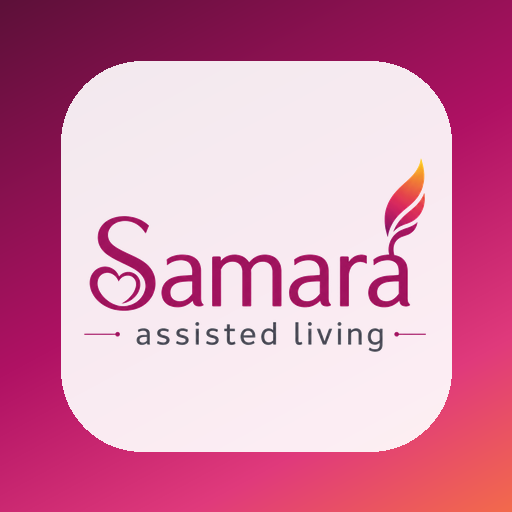
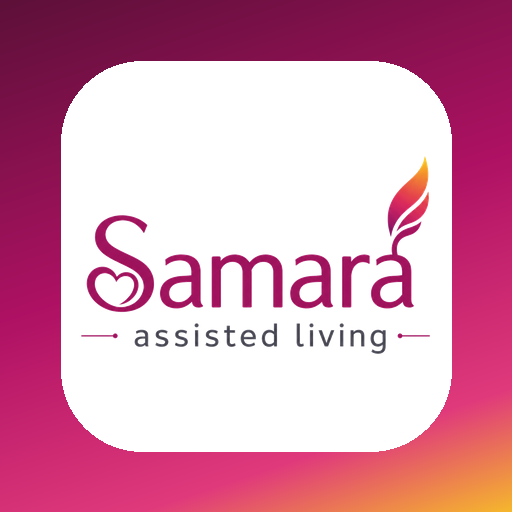
Add files via upload

Changed region(s): [[0.1562, 0.3125, 0.8438, 0.6875], [0.4688, 0.8438, 1.0, 1.0], [0.4688, 0.5, 0.5, 0.5938]]

diff --git a/app.js b/app.js
@@ -70,8 +70,8 @@
 
 (() => {
   'use strict';
-  const APP_VERSION = '2.8.4';
-  const APP_BUILD_DATE = '06-Aug-2026 08:30 IST';
+  const APP_VERSION = '2.8.5';
+  const APP_BUILD_DATE = '06-Aug-2026 08:50 IST';
   const APP_SCHEMA_VERSION = '24';
   window.APP_VERSION = APP_VERSION;
   window.SAMARA_BUILD = Object.freeze({
@@ -158,8 +158,9 @@
       .badge.success,.status-badge.success,.pill.success{background:#fae7f0!important;color:#781345!important;border-color:#e2adc7!important}
       .field-toggle-button.make-required{background:linear-gradient(100deg,#7a1247,#b01264,#e03a7c)!important;color:#fff!important}
       .medication-declaration{display:grid;grid-template-columns:minmax(320px,520px) 1fr;gap:14px;align-items:end;margin:10px 0 14px;padding:14px;border:1px solid #ead0de;border-radius:14px;background:linear-gradient(135deg,#fffafd,#fff1f7)}
-      .medicine-order-row{grid-template-columns:38px minmax(170px,1.15fr) minmax(145px,1fr) minmax(110px,.75fr) minmax(150px,1fr) minmax(120px,.8fr) minmax(190px,1.2fr) minmax(135px,.9fr)!important}
-      @media(max-width:1100px){.medication-declaration{grid-template-columns:1fr}.medicine-order-row{grid-template-columns:1fr 1fr!important}.admission-row-number{grid-column:1/-1}}
+      .medicine-order-row{grid-template-columns:repeat(5,minmax(155px,1fr))!important}
+      @media(max-width:1250px){.medication-declaration{grid-template-columns:1fr}.medicine-order-row{grid-template-columns:repeat(3,minmax(160px,1fr))!important}}
+      @media(max-width:760px){.medicine-order-row{grid-template-columns:1fr!important}}
       .field-setting-status.optional{background:#fae7f0!important;color:#781345!important}
       .field-settings-autosave{color:#ffe5f1!important}
       .app-splash-progress span,.login-v3-progress span,
@@ -1606,10 +1607,59 @@ Caring with Compassion. Living with Dignity.`;
       .content .btn{
         min-height:38px;
       }
-            .admission-numbered-row{position:relative;padding-left:54px!important}
+      .admission-numbered-row{
+        position:relative!important;
+        padding:54px 12px 12px!important;
+        margin-top:10px!important;
+        border:1px solid #ead0de!important;
+        border-radius:14px!important;
+        background:linear-gradient(145deg,#ffffff,#fffafd)!important;
+        column-gap:10px!important;
+        row-gap:12px!important;
+        align-items:end!important;
+      }
       .admission-row-number{
-        position:absolute;left:12px;top:12px;width:30px;height:30px;border-radius:50%;
-        display:grid;place-items:center;background:linear-gradient(100deg,#7a1247,#b01264,#e03a7c);color:#fff;font-weight:900
+        position:absolute!important;
+        left:14px!important;
+        top:10px!important;
+        width:30px!important;
+        height:30px!important;
+        border-radius:50%!important;
+        display:grid!important;
+        place-items:center!important;
+        background:linear-gradient(100deg,#7a1247,#b01264,#e03a7c)!important;
+        color:#fff!important;
+        font-weight:900!important;
+        line-height:1!important;
+        z-index:2!important;
+      }
+      .admission-numbered-row>.field,
+      .admission-numbered-row>.medication-time-field{
+        min-width:0!important;
+        width:100%!important;
+      }
+      .admission-numbered-row label{
+        display:block!important;
+        margin-bottom:6px!important;
+        line-height:1.2!important;
+        white-space:normal!important;
+      }
+      .admission-numbered-row input,
+      .admission-numbered-row select,
+      .admission-numbered-row textarea{
+        width:100%!important;
+        min-width:0!important;
+      }
+      .admission-numbered-row.care{
+        grid-template-columns:minmax(210px,1.25fr) minmax(180px,.85fr) minmax(180px,.85fr) minmax(250px,1.5fr) auto!important;
+      }
+      @media(max-width:1050px){
+        .admission-numbered-row.care{grid-template-columns:1fr 1fr!important}
+        .admission-numbered-row.care>.btn{grid-column:1/-1;justify-self:end}
+      }
+      @media(max-width:700px){
+        .admission-numbered-row{padding:52px 10px 10px!important}
+        .admission-numbered-row.care{grid-template-columns:1fr!important}
       }
       .admission-locked-row{
         display:grid;grid-template-columns:36px minmax(0,1fr) auto;gap:10px;align-items:start;
@@ -1661,8 +1711,6 @@ Caring with Compassion. Living with Dignity.`;
       @media(max-width:700px){
         .admission-locked-row{grid-template-columns:36px 1fr}
         .admission-row-actions{grid-column:1/-1}
-        .admission-numbered-row{padding-left:12px!important;padding-top:48px!important}
-        .admission-row-number{top:10px}
       }
 
 .content .clinical-charge-note{

diff --git a/index.html b/index.html
@@ -3,43 +3,38 @@
 <head>
   <meta charset="UTF-8" />
   <meta name="viewport" content="width=device-width, initial-scale=1, viewport-fit=cover" />
-  <meta name="theme-color" content="#a91360" />
+  <meta name="theme-color" content="#b01264" />
   <meta name="apple-mobile-web-app-capable" content="yes" />
   <meta name="apple-mobile-web-app-status-bar-style" content="default" />
   <meta name="apple-mobile-web-app-title" content="Samara Care" />
-  <title>Samara Care ERP 2.8.3</title>
-  <link rel="manifest" href="./manifest.webmanifest" />
-  <link rel="apple-touch-icon" sizes="180x180" href="./icons/apple-touch-icon.png" />
-  <link rel="icon" type="image/png" href="./icons/favicon.png" />
-  <link rel="stylesheet" href="./styles.css?v=2.8.3" />
-  <style>
-    .app-splash-brand-logo{display:block;width:min(430px,82vw);max-height:210px;object-fit:contain;margin:0 auto 10px}
-    @media(max-width:600px){.app-splash-brand-logo{width:min(320px,88vw);max-height:160px}}
-  </style>
-  <link rel="stylesheet" href="./samara-gradient-theme.css?v=2.8.3" />
+  <title>Samara Care ERP 2.8.5</title>
+  <link rel="manifest" href="./manifest.webmanifest?v=2.8.5" />
+  <link rel="apple-touch-icon" sizes="180x180" href="./icons/apple-touch-icon.png?v=2.8.5" />
+  <link rel="icon" type="image/png" href="./icons/favicon.png?v=2.8.5" />
+  <link rel="stylesheet" href="./styles.css?v=2.8.5" />
 </head>
 <body>
   <div id="app-splash" class="app-splash" role="status" aria-live="polite" aria-label="Loading Samara Care ERP">
     <div class="app-splash-orb app-splash-orb-one" aria-hidden="true"></div>
     <div class="app-splash-orb app-splash-orb-two" aria-hidden="true"></div>
     <div class="app-splash-card">
-      <img class="app-splash-brand-logo" src="./assets/samara-logo.png?v=2.8.3" alt="Samara Assisted Living" />
-      
+      <div class="app-splash-logo" aria-hidden="true">SC</div>
+      <div class="app-splash-kicker">ASSISTED LIVING MANAGEMENT</div>
       <h1>Samara Care ERP</h1>
-      <p class="app-splash-tagline">Compassion&nbsp; • &nbsp;Comfort&nbsp; • &nbsp;Dignity</p>
+      <p class="app-splash-tagline">Compassion&nbsp; • &nbsp;Care&nbsp; • &nbsp;Comfort</p>
       <div class="app-splash-progress" aria-hidden="true"><span></span></div>
       <p class="app-splash-status">Preparing your secure workspace…</p>
-      <div class="app-splash-version">Version 2.8.3</div>
+      <div class="app-splash-version">Version 2.8.5</div>
     </div>
   </div>
   <div id="root"></div>
   <noscript>JavaScript is required to run Samara Care.</noscript>
-  <script src="./bootstrap-error.js?v=2.8.3"></script>
-  <script src="./config.js?v=2.8.3"></script>
+  <script src="./bootstrap-error.js?v=2.8.5"></script>
+  <script src="./config.js?v=2.8.5"></script>
   <script crossorigin src="https://cdn.jsdelivr.net/npm/react@18.3.1/umd/react.production.min.js"></script>
   <script crossorigin src="https://cdn.jsdelivr.net/npm/react-dom@18.3.1/umd/react-dom.production.min.js"></script>
   <script src="https://cdn.jsdelivr.net/npm/@supabase/supabase-js@2.45.4/dist/umd/supabase.min.js"></script>
-  <script src="./health-check.js?v=2.8.3"></script>
-  <script src="./app.js?v=2.8.3"></script>
+  <script src="./health-check.js?v=2.8.5"></script>
+  <script src="./app.js?v=2.8.5"></script>
 </body>
 </html>

diff --git a/service-worker.js b/service-worker.js
@@ -1,9 +1,12 @@
-const CACHE = 'samara-erp-2.8.3-gradient-brand-theme';
+const CACHE = 'samara-erp-2.8.5-number-layout-new-icon';
 const SHELL = [
-  './', './index.html', './styles.css?v=2.8.3', './app.js?v=2.8.3',
-  './bootstrap-error.js?v=2.8.3', './health-check.js?v=2.8.3',
-  './config.js?v=2.8.3', './manifest.webmanifest',
-  './assets/samara-logo.png?v=2.8.3', './samara-gradient-theme.css?v=2.8.3', './icons/favicon.png', './icons/icon-192.png', './icons/icon-512.png', './icons/icon-maskable-512.png', './icons/apple-touch-icon.png'
+  './', './index.html', './styles.css?v=2.8.5', './app.js?v=2.8.5',
+  './bootstrap-error.js?v=2.8.5', './health-check.js?v=2.8.5',
+  './config.js?v=2.8.5', './manifest.webmanifest?v=2.8.5',
+  './assets/samara-logo.png?v=2.8.5',
+  './icons/favicon.png?v=2.8.5', './icons/icon-192.png?v=2.8.5',
+  './icons/icon-512.png?v=2.8.5', './icons/icon-maskable-512.png?v=2.8.5',
+  './icons/apple-touch-icon.png?v=2.8.5'
 ];
 self.addEventListener('install', event => {
   event.waitUntil(caches.open(CACHE).then(cache => cache.addAll(SHELL)).then(() => self.skipWaiting()));
